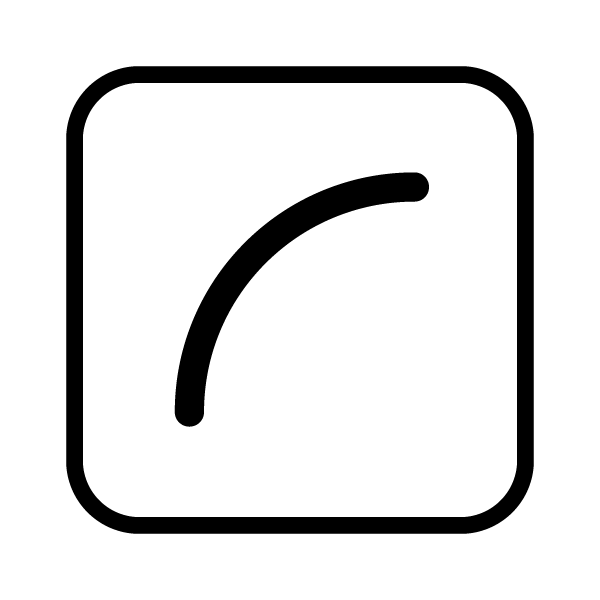
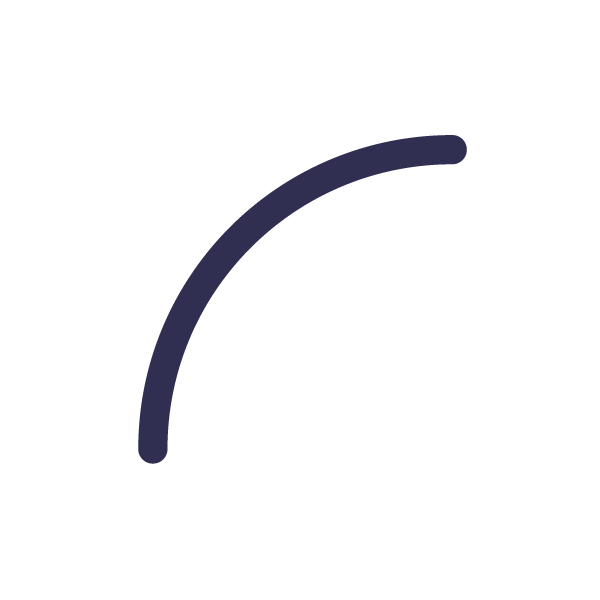
UI Pulple

Changed region(s): [[0.09, 0.09, 0.9, 0.9], [0.21, 0.21, 0.78, 0.78]]

diff --git a/index.html b/index.html
@@ -26,6 +26,24 @@
       <div class="buttonAll">
         <!-- <div class="buttons"> -->
         <div class="mainbutton">
+          <!-- The drawing line button  -->
+          <div class="button" id="btn-drawing-line">
+            <img
+              class="img-fluid icons"
+              src="img/canvasicons-pencil.png"
+              alt="line"
+              id="drawing-line"
+            />
+          </div>
+          <!-- The str-line button  -->
+          <div class="button" id="btn-strline">
+            <img
+              class="img-fluid icons"
+              src="img/canvasicons-stright.png"
+              alt="strline"
+              id="strline"
+            />
+          </div>  
           <!-- The drawing rectangle button  -->
           <div class="button" id="btn-drawing-rectangle">
             <img
@@ -34,14 +52,14 @@
               alt="rectangle"
               id="drawing-rectangle"
             />
-          </div>
-          <!-- The drawing line button  -->
-          <div class="button" id="btn-drawing-line">
+          </div>  
+          <!-- The drawing circle button  -->
+          <div class="button" id="btn-drawing-circle">
             <img
               class="img-fluid icons"
-              src="img/canvasicons-pencil.png"
-              alt="line"
-              id="drawing-line"
+              src="img/canvasicons-circle.png"
+              alt="cicle"
+              id="drawing-circle"
             />
           </div>
           <!-- The drawing arc button  -->
@@ -62,16 +80,6 @@
               id="drawing-bezier-curve"
             />
           </div>
-          <!-- The drawing circle button  -->
-          <!-- <span class="btn btn-primary" id="drawing-circle">Draw circle</span> -->
-          <div class="button" id="btn-drawing-circle">
-            <img
-              class="img-fluid icons"
-              src="img/canvasicons-circle.png"
-              alt="cicle"
-              id="drawing-circle"
-            />
-          </div>
           <!-- The Text button  -->
           <!-- <span class="btn btn-info" id="text">Text</span> -->
           <div class="button" id="btn-text">
@@ -90,16 +98,7 @@
               alt="eraser"
               id="eraser"
             />
-          </div>
-          <!-- The str-line button  -->
-          <div class="button" id="btn-strline">
-            <img
-              class="img-fluid icons"
-              src="img/canvasicons-eraser.png"
-              alt="strline"
-              id="strline"
-            />
-          </div>          
+          </div>      
           <!-- UTILITIES -->
           <!-- Clear All -->
           <!-- <span class="btn btn-danger" id="clear-canvas">Clear Canvas</span> -->
@@ -234,6 +233,8 @@
       $(() => {
         currentFunction = new DrawingRectangle(contextReal, contextDraft);
         $("#drawing-rectangle").click(() => {
+          // $('.mainbutton *').css('background-color', 'red')
+          $('.mainbutton img').css('box-shadow', 'inset 0px 0px 0px 3px #7510f7')
           currentFunction = new DrawingRectangle(contextReal, contextDraft);
         });
         $("#drawing-line").click(() => {

diff --git a/css/style.css b/css/style.css
@@ -25,40 +25,54 @@ body {
 .mainbutton {
   display: grid;
   grid-template-columns: auto auto;
+  column-gap: 1em;
+  row-gap: 1em;
   /* grid-auto-rows: 30px; */
-  column-gap: 0.5em;
-  row-gap: 0.5em;
-  padding: 10px 20px;
-  /* width: 300px; */
+  background-color: #302f51;
+  /* background-color: #7510f7; */
   justify-content: center;
+  border-radius: 15px;
+  margin-left: 20px;
+  padding: 1.5em 1em;
+  box-shadow: 2px 2px 4px 0px rgb(0 0 0 / 50%);
 }
 
 .utility-button {
-  font-size: 10px;
-  font-weight: 700;
-  background-color: rgba(207, 207, 23, 0.466);
   display: grid;
   grid-template-columns: auto;
-  /* grid-auto-rows: 30px; */
   column-gap: 1em;
   row-gap: 0.5em;
-  padding: 10px 10px;
-  /* width: 250px; */
   justify-content: center;
+  /* border: 1px black solid; */
+  border-radius: 15px;
+  margin-top: 20px;
+  margin-left: 20px;
+  padding: 10px 10px;
+  font-size: 10px;
+  font-weight: 800;
+  background-color: rgba(253, 253, 176, 0.651);
+  box-shadow: 2px 2px 4px 0px rgb(0 0 0 / 50%);
+  /* width: 250px; */
 }
 
 .buttonAll {
   display: flex;
   flex-direction: column;
-  background-color: bisque;
+  background-color: white;
 }
 
-.icons {
+.mainbutton .icons {
   width: 50px;
   cursor: pointer;
-  border: 2px solid grey;
   border-radius: 5px;
-  box-shadow: 2px 2px 4px 0px rgb(0 0 0 / 50%);
+  box-shadow: 4px 4px 4px 0px rgb(0 0 0 / 80%);
+  background-color: white;
+  /* border: #7510f7 3px solid; */
+}
+
+.active {
+  border: #7510f7 3px solid;
+  border-radius: 5px;
 }
 
 .contain {

diff --git a/javascript/str-line.js b/javascript/str-line.js
@@ -9,6 +9,7 @@ class DrawingStriaghtLine extends PaintFunction {
 
   onMouseDown(coord, event) {
     this.contextDraft.strokeStyle = canvasSettings.colorStroke;
+    this.contextDraft.lineWidth = canvasSettings.strokeSize;
   }
   onDragging(coord, event) {}
 
@@ -21,7 +22,7 @@ class DrawingStriaghtLine extends PaintFunction {
       this.contextDraft.clearRect(0, 0, canvasDraft.width, canvasDraft.height);
       this.contextDraft.quadraticCurveTo(cpx0, cpy0, cpx0, cpy0);
       this.contextDraft.stroke();
-    } 
+    }
   }
   onMouseUp(coord, event) {
     this.contextReal.strokeStyle = canvasSettings.colorStroke;
@@ -30,19 +31,20 @@ class DrawingStriaghtLine extends PaintFunction {
       this.origY = coord[1];
       this.contextDraft.clearRect(0, 0, canvasDraft.width, canvasDraft.height);
       this.click++;
-      ;
     } else if (this.click === 1) {
       var cpx0 = coord[0];
       var cpy0 = coord[1];
       this.endx0 = coord[0];
       this.endy0 = coord[1];
+      this.contextReal.strokeStyle = canvasSettings.colorStroke;
+      this.contextReal.lineWidth = canvasSettings.strokeSize;
       this.contextReal.beginPath();
       this.contextReal.moveTo(this.origX, this.origY);
       this.contextDraft.clearRect(0, 0, canvasDraft.width, canvasDraft.height);
       this.contextReal.quadraticCurveTo(cpx0, cpy0, this.endx0, this.endy0);
       this.contextReal.stroke();
       this.click = 0;
-    } 
+    }
   }
   onMouseLeave() {}
   onMouseEnter() {}

diff --git a/javascript/canvas-common.js b/javascript/canvas-common.js
@@ -36,8 +36,8 @@ $("#canvas-draft").mouseup(function (e) {
 
 $("#textInput").keypress(function (e) {
   console.log("hi");
-  if(e.which == 13){
-  currentFunction.onKeyPress();
+  if (e.which == 13) {
+    currentFunction.onKeyPress();
   }
 });
 
@@ -96,6 +96,6 @@ class PaintFunction {
   onMouseUp() {}
   onMouseLeave() {}
   onMouseEnter() {}
-  onKeyPress(){}
+  onKeyPress() {}
   color() {}
 }
